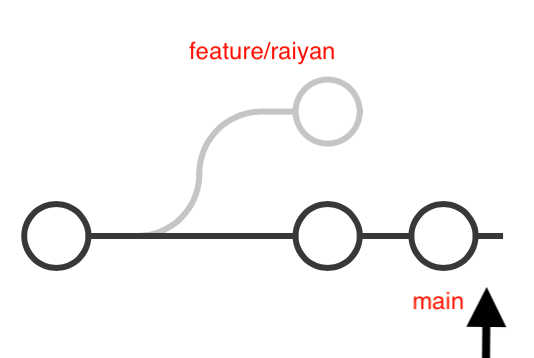
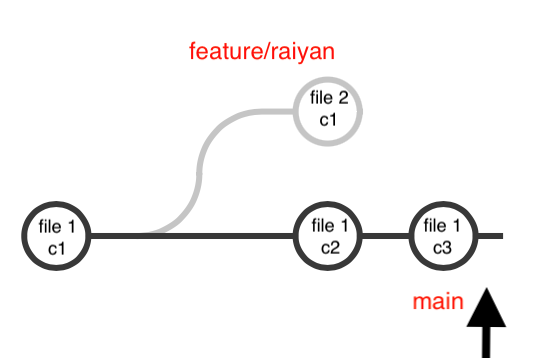
reformat

diff --git a/example-doc.md b/example-doc.md
@@ -43,7 +43,12 @@
 
 ![first commit](ss5.png)
 
-## Resolve conflict
+## Create a conflict
+1. 2 branches will edit the same file this time before rebase
+
+![first commit](ss8.png)
+
+## How to resolve a conflict
 3. you will now be shown a Head or Tail to settle a conflict between 2 commits
 
 ![first commit](ss6.png)
